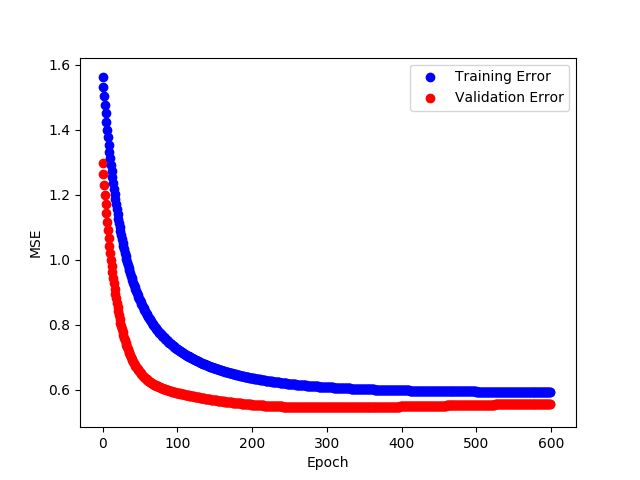
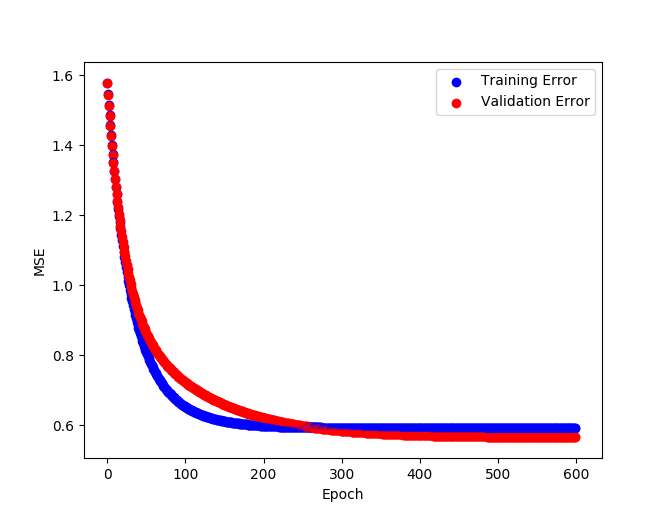
Added sophistication

diff --git a/lr_train.py b/lr_train.py
@@ -12,6 +12,8 @@ import pca
 data = pre.load_file('Data/Airfoil/airfoil_self_noise.dat')
 data = pre.organise(data,"\t","\r\n")
 data = pre.standardise(data,data.shape[1])
+PCA = 0
+new_dim = 4
 
 N_val_data = 300
 
@@ -21,17 +23,31 @@ val_data = data[:N_val_data,:5]
 data = data[N_val_data:,:5]
 
 lr = 1e-1
-
-# Perform PCA
-data = pca.project_data(data,4)
-val_data = pca.project_data(val_data,4)
+fig_title = "Before applying PCA"
+if PCA:
+  # Perform PCA
+  data = pca.project_data(data,new_dim)
+  val_data = pca.project_data(val_data,new_dim)
+  fig_title = "After applying PCA"
 
 [N,M] = data.shape
 #fig = plt.figure()
 #ax = fig.add_subplot(111,projection='3d')
 #ax.scatter(new_data[:,0],new_data[:,1],new_data[:,2],marker='d',c='r')
 
-W = np.random.random([M,1])
+W = np.zeros([M,1])
+b = 0
+try:
+  W = np.load('Data/Airfoil/random_weight.npy')
+  b = np.load('Data/Airfoil/random_bias.npy')
+except Exception:
+  W = np.random.random([M,1])
+  b = np.random.rand()
+  np.save('Data/Airfoil/random_weight.npy',W)
+  np.save('Data/Airfoil/random_bias.npy',b)
+
+if PCA:
+  W = W[:new_dim,:]
 #W = np.dot(np.dot(np.linalg.inv(np.dot(data.T,data)),data.T),t)
 data = data.T # Examples are arranged in columns [features,N]
 val_data = val_data.T
@@ -82,9 +98,7 @@ for epoch in range(epochs):
 
   print("Epoch: %d, Loss: %.3f, Val Loss: %.3f, Log-Likelihood: %.3f"%(epoch,loss[epoch],val_loss[epoch],ll))
 
-"""
-Comment the following when enabling the training loop
-"""
+
 y = np.dot(W.T,data).T + b
 plt.figure()
 plt.plot(range(len(t)),t,'-b')
